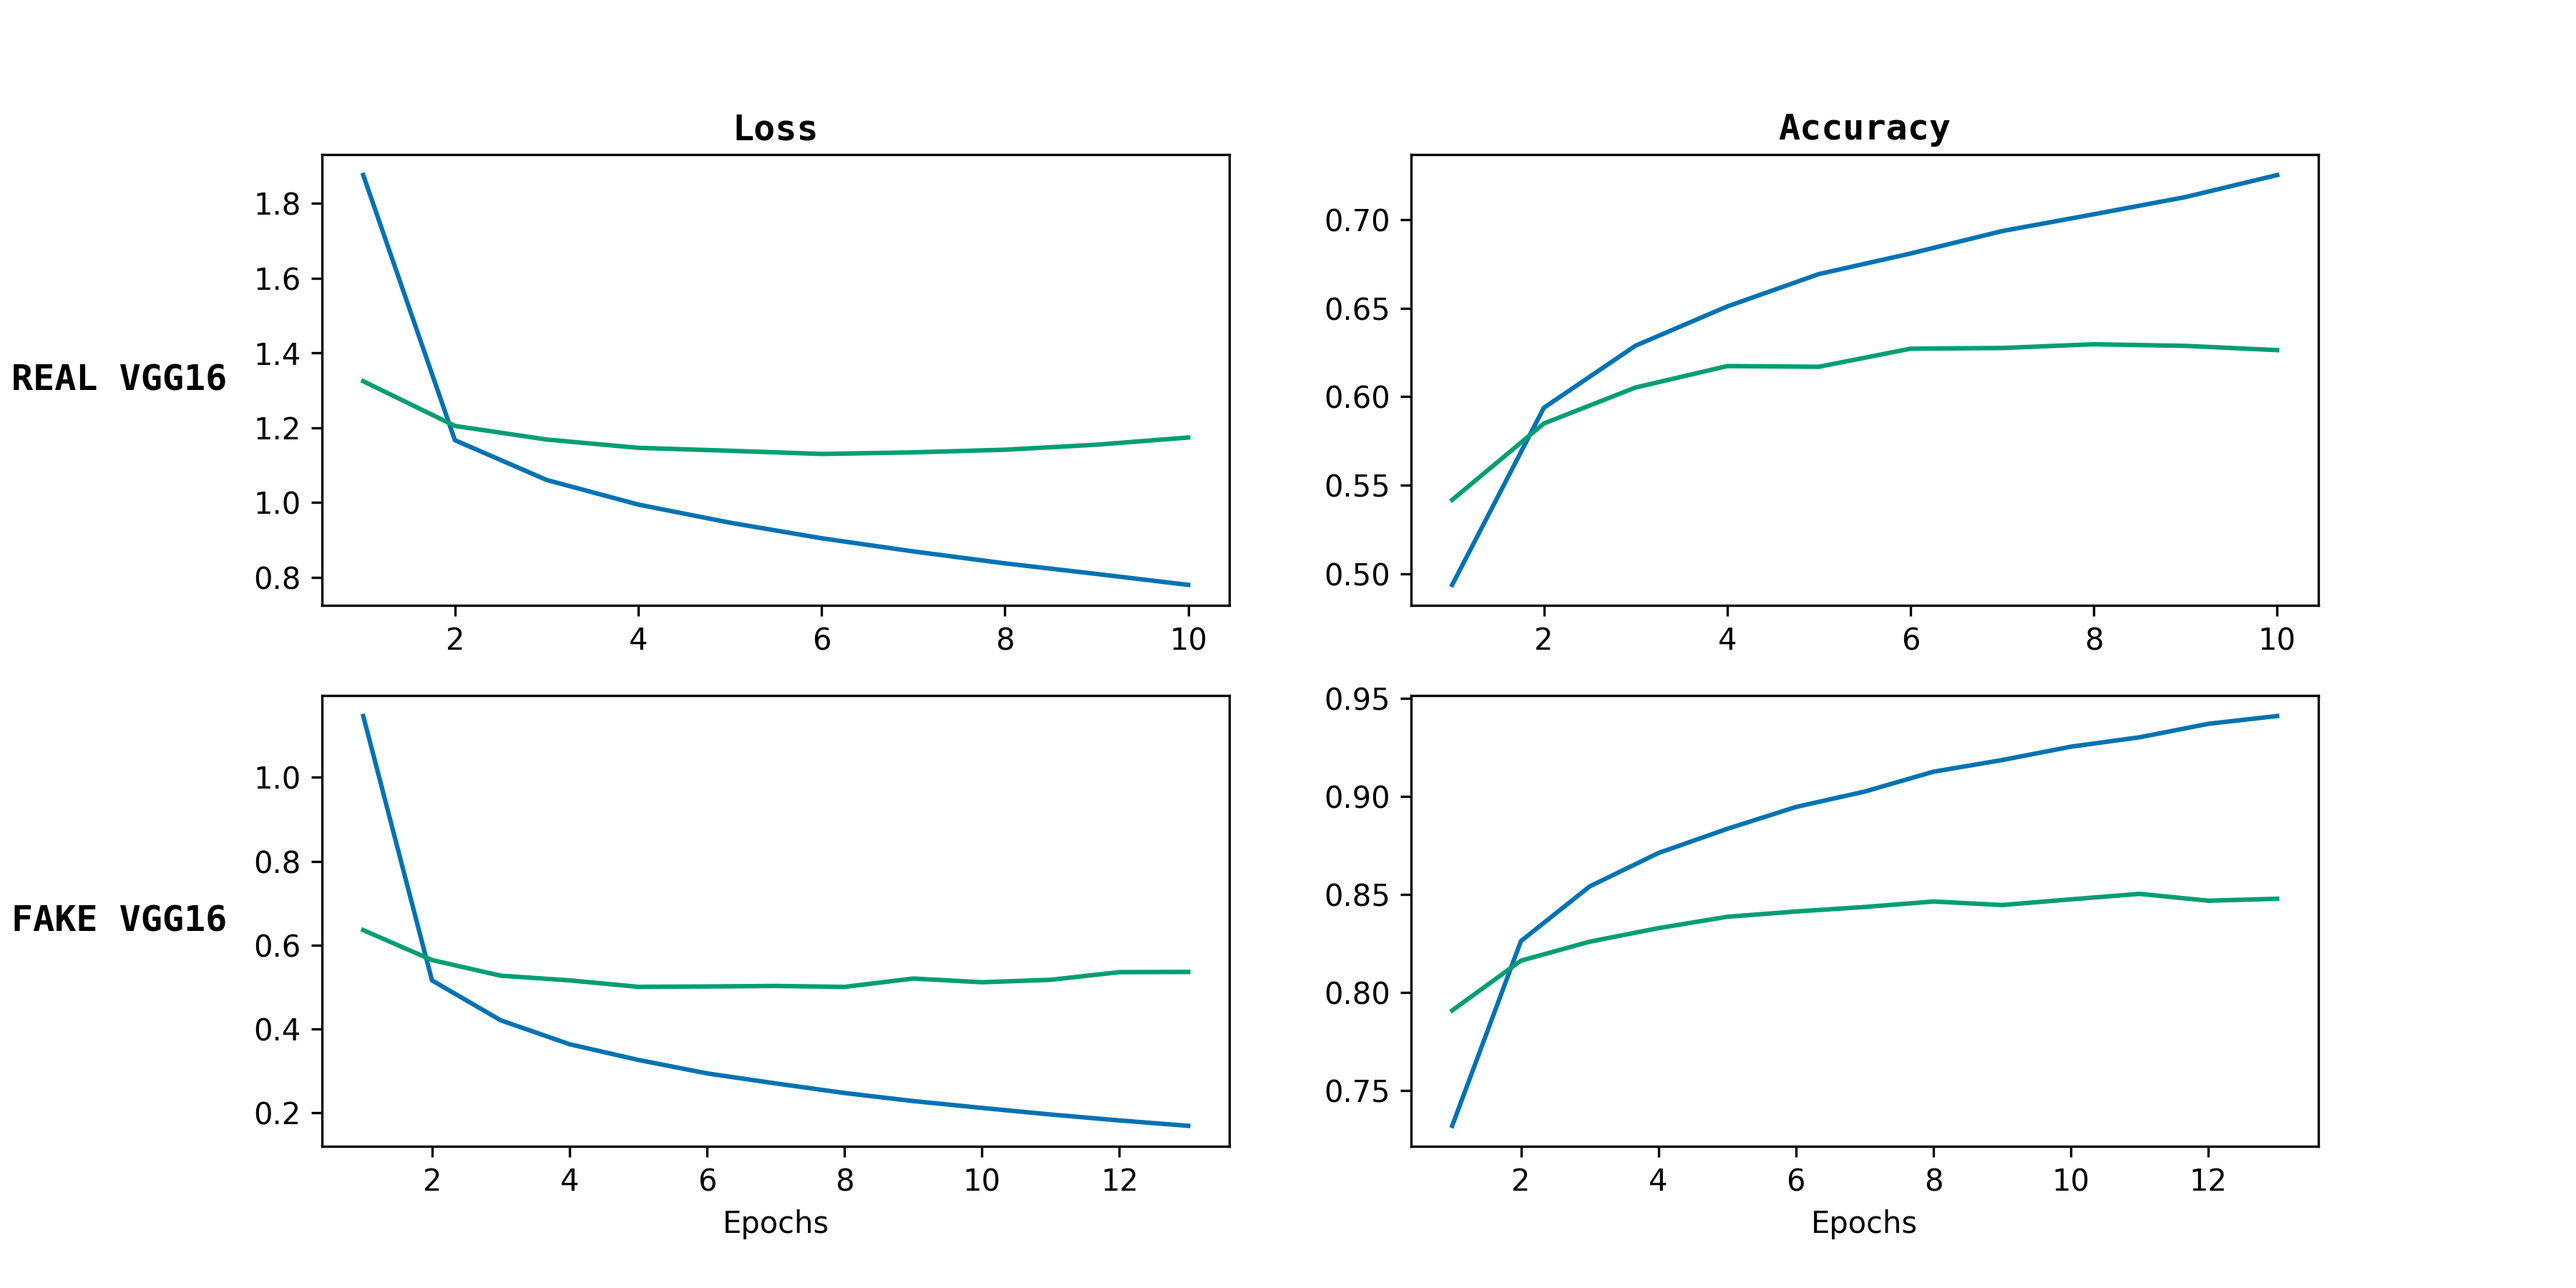
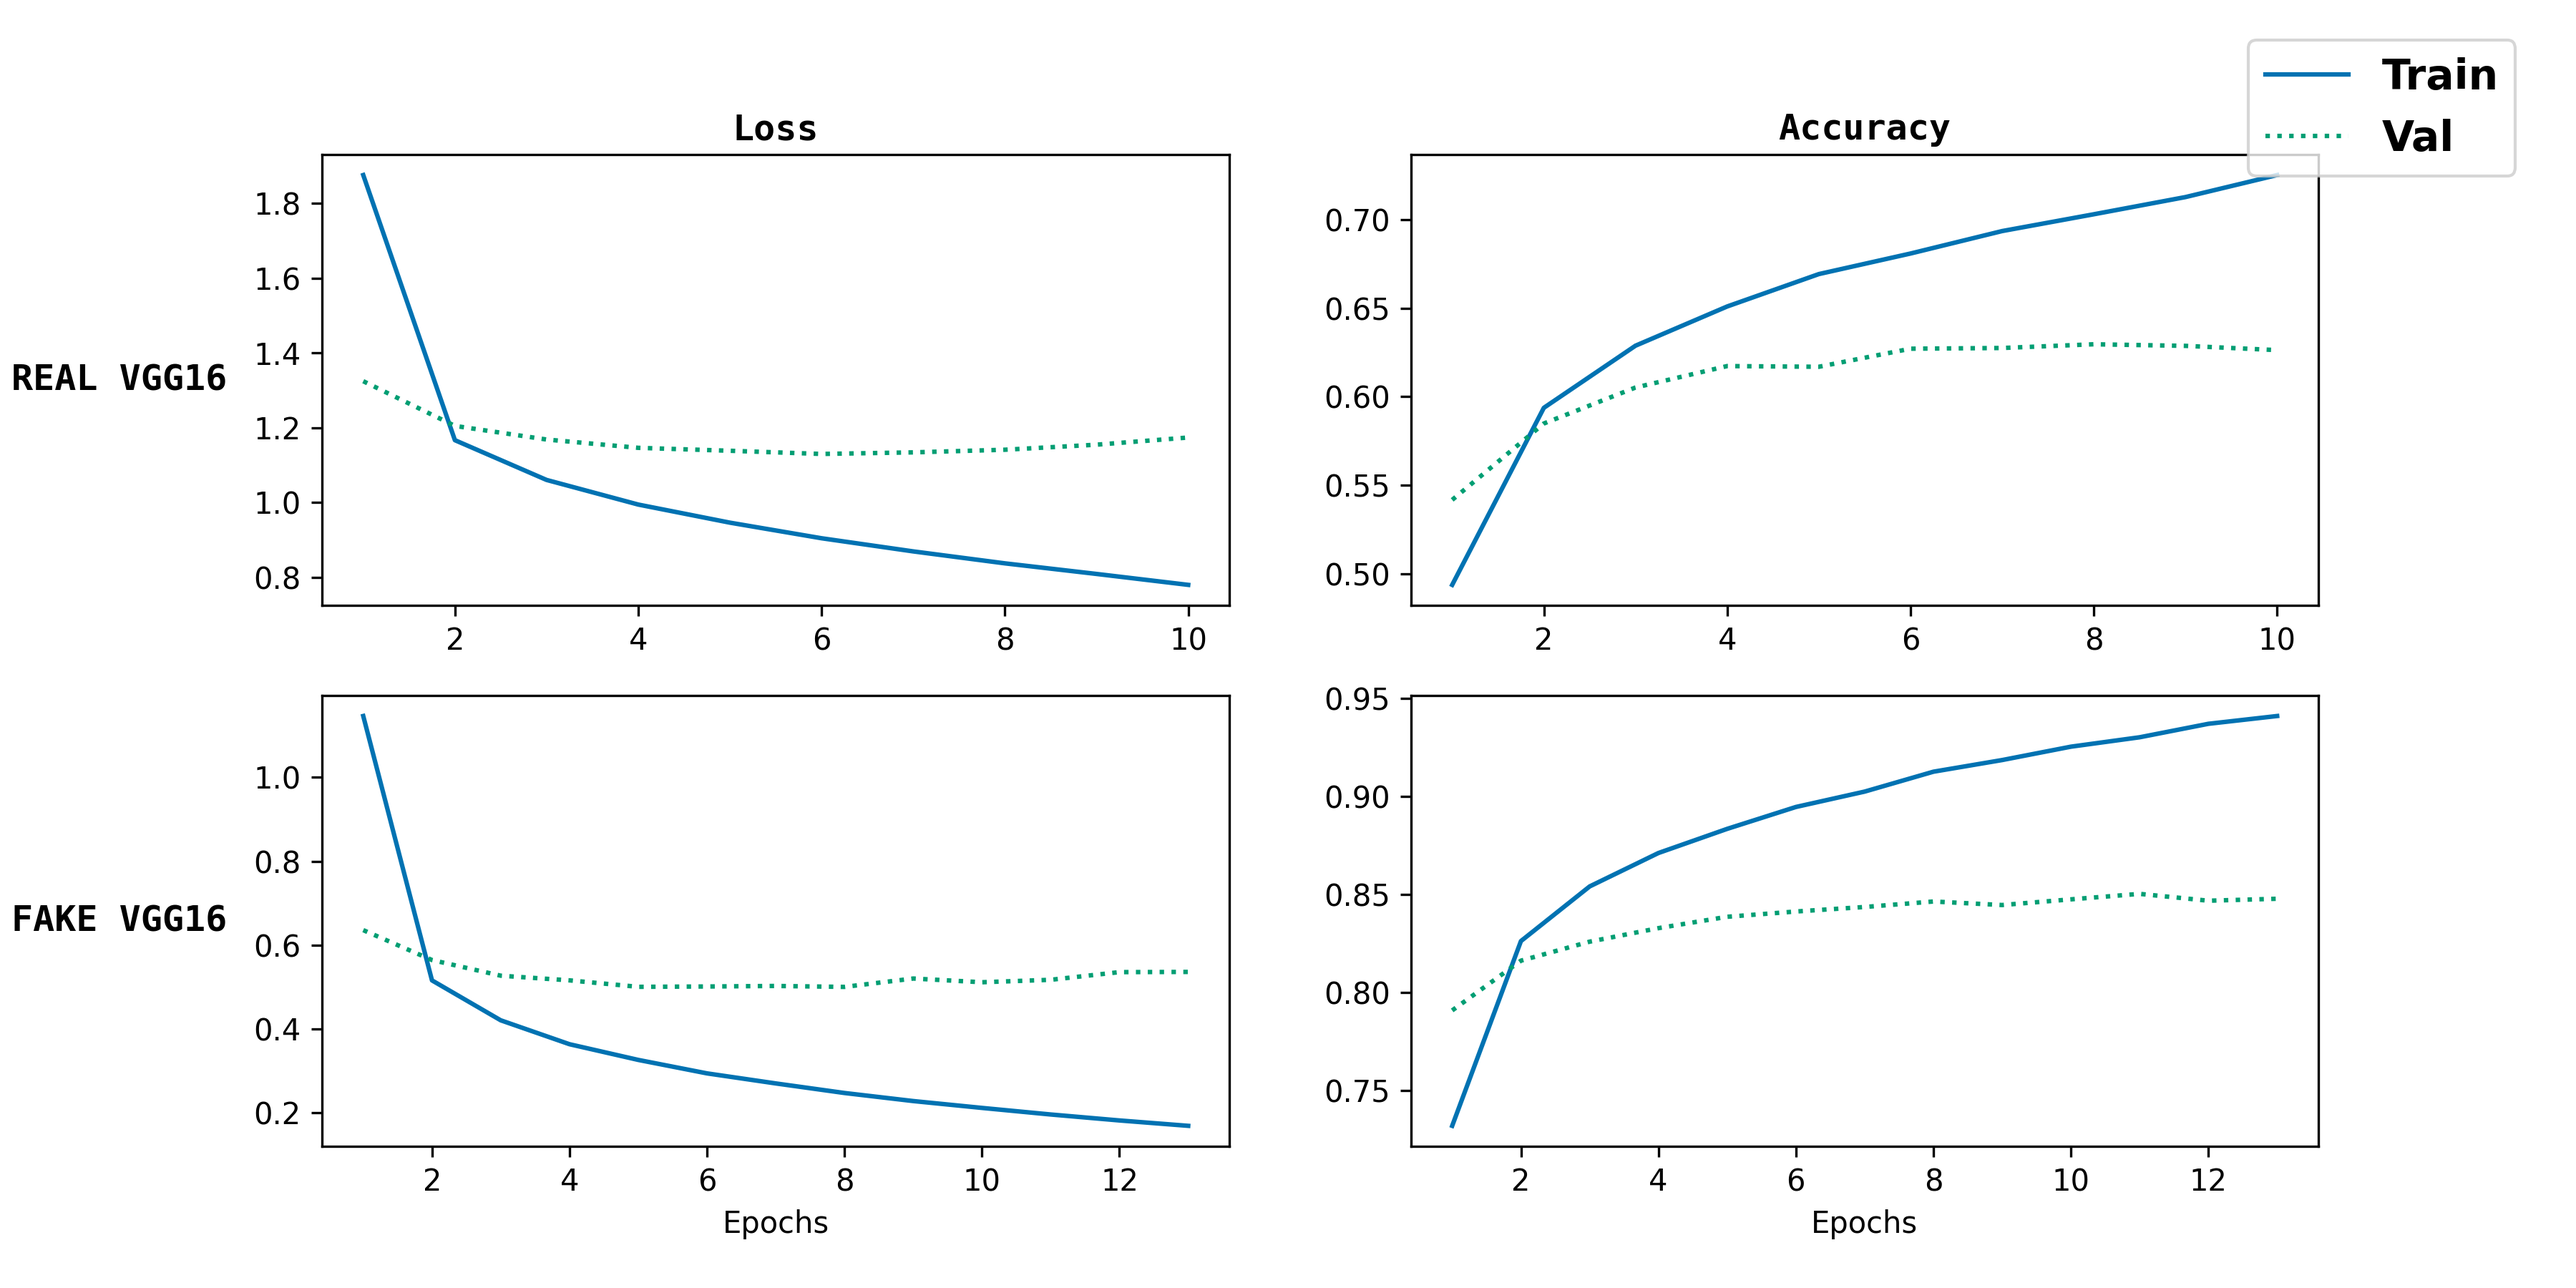
add legends to plots, differ between val and train

Changed region(s): [[0.8711, 0.0311, 0.9644, 0.1244]]

diff --git a/src/modules/visualisation.py b/src/modules/visualisation.py
@@ -121,24 +121,27 @@ def plot_histories(history1:dict, history2:dict, row_headers:list, savepath:path
     fig, axes = plt.subplots(2, 2, figsize=(12,6))
 
     # loss history 1
-    axes[0, 0].plot(np.arange(1, epochs_history1), history1["loss"], label="train_loss") # plot train loss 
-    axes[0, 0].plot(np.arange(1, epochs_history1), history1["val_loss"], label="train_loss") # plot train loss 
+    axes[0, 0].plot(np.arange(1, epochs_history1), history1["loss"], label="Train") 
+    axes[0, 0].plot(np.arange(1, epochs_history1), history1["val_loss"], label="Val", linestyle=":") 
 
     # accuracy history 1
-    axes[0, 1].plot(np.arange(1, epochs_history1), history1["accuracy"], label="train_loss") # plot train loss 
-    axes[0, 1].plot(np.arange(1, epochs_history1), history1["val_accuracy"], label="train_loss") # plot train loss 
+    axes[0, 1].plot(np.arange(1, epochs_history1), history1["accuracy"], label="Train") 
+    axes[0, 1].plot(np.arange(1, epochs_history1), history1["val_accuracy"], label="Val", linestyle=":") 
     
     # loss history 2
-    axes[1, 0].plot(np.arange(1, epochs_history2), history2["loss"], label="train_loss") # plot train loss
-    axes[1, 0].plot(np.arange(1, epochs_history2), history2["val_loss"], label="train_loss") # plot train loss
+    axes[1, 0].plot(np.arange(1, epochs_history2), history2["loss"], label="Train") 
+    axes[1, 0].plot(np.arange(1, epochs_history2), history2["val_loss"], label="Val", linestyle=":") 
     
     # accuracy history 2
-    axes[1, 1].plot(np.arange(1, epochs_history2), history2["accuracy"], label="train_loss") # plot train loss 
-    axes[1, 1].plot(np.arange(1, epochs_history2), history2["val_accuracy"], label="train_loss") # plot train loss 
+    axes[1, 1].plot(np.arange(1, epochs_history2), history2["accuracy"], label="Train") 
+    axes[1, 1].plot(np.arange(1, epochs_history2), history2["val_accuracy"], label="Val", linestyle=":") 
     
     # set x labels
     axes[1, 0].set_xlabel("Epochs")
     axes[1, 1].set_xlabel("Epochs")
+
+    # add legend to the left upper corner
+    axes[0, 1].legend(bbox_to_anchor=(0.9, 1.3), loc="upper left", prop = {"size":14, "weight":"bold"})
 
     # add column and row headers
     col_headers = ["Loss", "Accuracy"]
